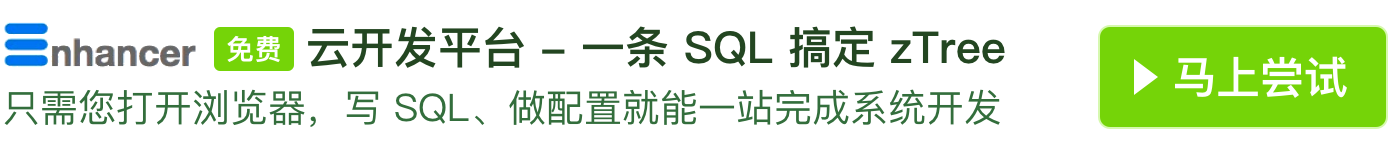
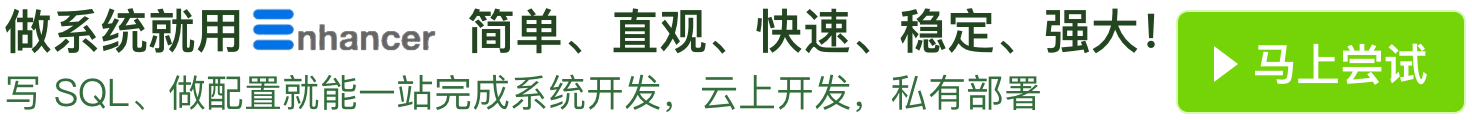
更新广告图片

diff --git a/zTreeWeb/web3.0_Design/css/common.css b/zTreeWeb/web3.0_Design/css/common.css
@@ -45,9 +45,9 @@ h4 {font-size: 14px;font-weight: normal;line-height: 25px;}
 .header-text {padding: 10px 25px 15px 150px;font-size: 18px;line-height: 24px;color: #747d67;font-family: Helvetica, sans-serif;}
 .header-text h1 {margin-bottom: 8px;}
 .header-text img {padding-bottom: 5px;}
-.header-ad-container {position: relative;width: 940px;margin: 5px auto 0;height: 80px;border: 1px solid white;background: transparent url(../img/contact-bg.png) repeat-x 0 -50px;}
+.header-ad-container {position: relative;width: 940px;margin: 5px auto 0;height: 68px;border: 1px solid white;background: transparent url(../img/contact-bg.png) repeat-x 0 -50px;padding: 4px;box-sizing: border-box;}
 .header-ad {text-align: center;}
-.header-ad-container img {height: 80px;}
+.header-ad-container img {height: 60px;}
 .header-ad-container .ad-alert {position: absolute;bottom: 0px;right: 16px;color: #6d9838;}
 .shortcuts {white-space: nowrap;text-align: right;position: absolute;top: -45px;right: 5px;}
 .shortcuts.language {top: -85px;right:0px;}
